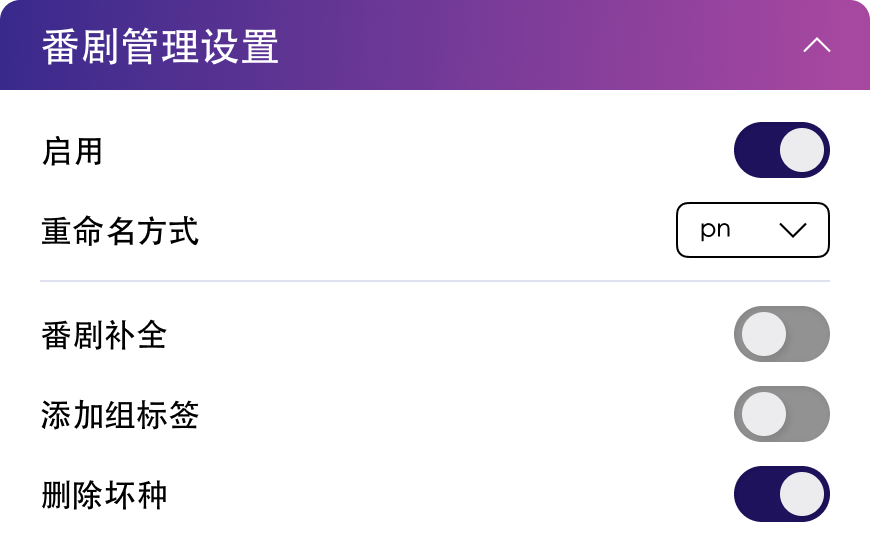
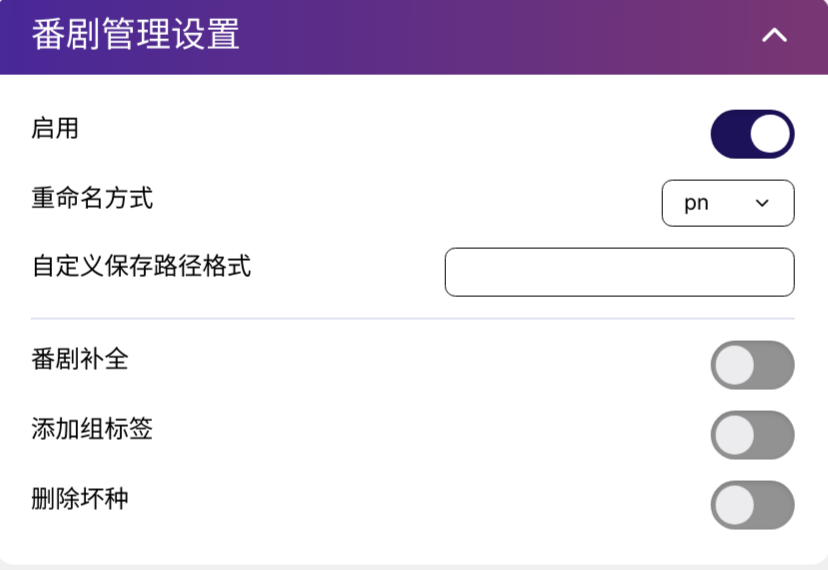
docs: 更新文档

diff --git a/docs/config/manager.md b/docs/config/manager.md
@@ -14,6 +14,7 @@
 - **Eps complete** 为是否补全当季番剧，如果开启，则会补全当季番剧，如果关闭，则不会补全当季番剧。
 - **Add group tag** 为是否在下载规则中添加番剧组标签，如果开启，则会在下载规则中添加番剧组标签。
 - **Delete bad torrent** 为是否删除错误的种子，如果开启，则会删除错误的种子。
+- **Customize Save Path Pattern** 为自定义保存路径格式，支持模板字符串，会在生成保存路径时自动替换模板变量。
 - [关于文件路径][1]
 - [关于重命名][2]
 
@@ -23,14 +24,30 @@
 
 配置文件部分：`bangumi_manager`
 
-| 参数名                | 参数说明            | 参数类型 | WebUI 对应选项 | 默认值   |
-|--------------------|-----------------|------|------------|-------|
-| enable             | 番剧管理是否启用        | 布尔值  | 番剧管理是否启用   | true  |
+| 参数名                | 参数说明            | 参数类型 | WebUI 对应选项 | 默认值  |
+|--------------------|-----------------|------|------------|------|
+| enable             | 番剧管理是否启用        | 布尔值  | 番剧管理是否启用   | true |
 | eps_complete       | 是否补全当季番剧        | 布尔值  | 番剧补全       | false |
-| rename_method      | 重命名方式           | 字符串  | 重命名方式      | pn    |
+| rename_method      | 重命名方式           | 字符串  | 重命名方式      | pn   |
 | group_tag          | 是否在下载规则中添加番剧组标签 | 布尔值  | 番剧组标签      | false |
 | remove_bad_torrent | 是否删除错误的种子       | 布尔值  | 种子删除       | false |
+| customize_path_pattern | 自定义保存路径格式       | 字符串  | 自定义保存路径格式       | ''  |
 
+## 自定义保存路径说明
+
+当前支持的模板变量:
+
+- **official_title**: 番剧中文名
+- **year**: 番剧年份（可能为空）
+- **title_raw**: 番剧原名
+- **season**: 番剧季度
+- **season_raw**: 番剧季度原名（可能为空）
+- **group_name**: 字幕组（可能为空）
+- **download_path**: 在下载设置中配置的【下载地址】
+
+自定义保存路径格式示例: `/${download_path}/${year}/${official_title}`
+
+注意，部分字段为空时会跳过解析，例如上边示例中当 year 为空时，最终用来解析的路径是 `/${download_path}/${official_title}`。
 
 [1]:   https://www.autobangumi.org/faq/#%E4%B8%8B%E8%BD%BD%E4%BB%A5%E5%8F%8A%E5%85%B3%E9%94%AE%E8%AF%8D%E8%BF%87%E6%BB%A4
 [2]:   https://www.autobangumi.org/faq/#%F0%9F%93%81-%E9%87%8D%E5%91%BD%E5%90%8D%E7%9B%B8%E5%85%B3
